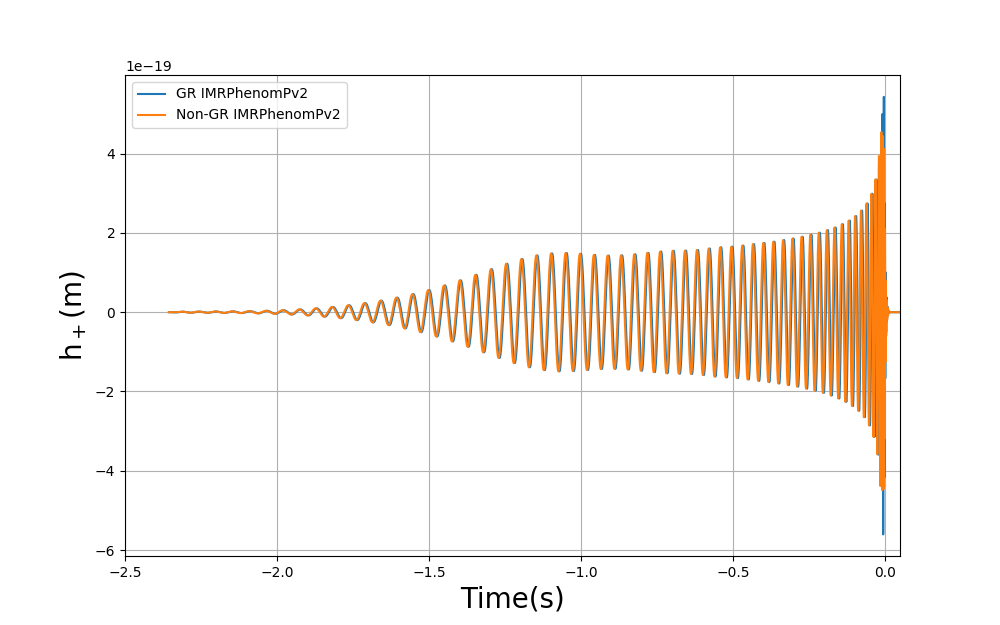
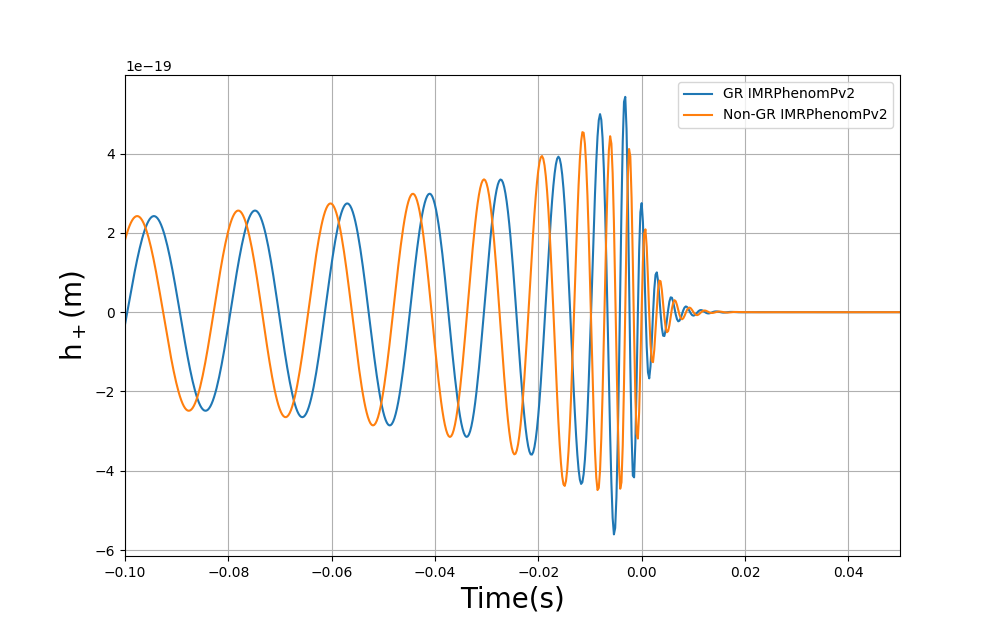
Zoomed in plots

diff --git a/zoom.py b/zoom.py
@@ -1,8 +1,6 @@
-#!/usr/bin/env python
+#import matplotlib
 
-import matplotlib
-
-matplotlib.use('Agg')
+#matplotlib.use('Agg')
 
 import numpy as np
 import pycbc
@@ -44,7 +42,7 @@ f_low = 20 # Lowest frequency
 
 # Generate the aLIGO ZDHP PSD
 delta_f = 1.0 / hp.duration # Frequency incirment
-flen = tlen/2 + 1 
+flen = tlen/2 + 1
 psd = aLIGOZeroDetHighPower(flen, delta_f, f_low) # Creating PSD
 
 
@@ -62,51 +60,50 @@ p['delta_t'] = 1./4096
 p['f_lower'] = 20
 p['approximant'] = 'IMRPhenomPv2'
 
-nGR = ['dchi0','dchi1','dchi2','dchi3','dchi4','dchi6',
-'dalpha2','dalpha3','dalpha4','dbeta2','dbeta3']
-
-#nGR = ['dchi0']
+nGR = ['dbeta3']
 
 # Looping through the list
 for nonGR in nGR:
-	# Setting the non-GR value to zero
-	j = 0
-	while True:
-		# Setting the non-GR parameter to have some value
-		p[str(nonGR)] = j
-	
-		sp, sc = pycbc.waveform.waveform.get_td_waveform(**p)
-	
-		# Resize the waveforms to the same length
-		sp.resize(tlen)
-	
-		# Note: This takes a while the first time as an FFT plan is generated
-		# subsequent calls are much faster.
-		m, i = match(hp, sp, psd=psd, low_frequency_cutoff=f_low)
+        # Setting the non-GR value to zero
+        j = 0
+        while True:
+                # Setting the non-GR parameter to have some value
+                p[str(nonGR)] = j
 
-		# If the match is less than 0.97 then break from the loop
-		if m <= 0.97:
-			print j
-			break
-		# Increasing the non-GR value
-		j += 0.01
-	
-	# Re-setting the non-GR parameter to zero.
+                sp, sc = pycbc.waveform.waveform.get_td_waveform(**p)
+
+                # Resize the waveforms to the same length
+                sp.resize(tlen)
+
+                # Note: This takes a while the first time as an FFT plan is generated
+                # subsequent calls are much faster.
+                m, i = match(hp, sp, psd=psd, low_frequency_cutoff=f_low)
+
+                # If the match is less than 0.97 then break from the loop
+                if m <= 0.97:
+                        print j
+                        break
+                # Increasing the non-GR value
+                j += 0.01
+
+        # Re-setting the non-GR parameter to zero.
         p[str(nonGR)] = 0
 
-	'''
-	Plotting and saving the waveforms
-	
-	plt.figure('%s'%nonGR, figsize = (10.0, 6.25))
-	plt.plot(hp.sample_times, hp, label = 'GR IMRPhenomPv2')
-	plt.plot(sp.sample_times, sp, label = 'Non-GR IMRPhenomPv2')
-	plt.xlabel('Time(s)', fontsize = 20)
-	plt.ylabel('h$_+$(m)', fontsize = 20)
-#	plt.title(('$%s = %.2f, M_1 = 20 M_\odot, M_2 = 30 M_\odot$'%(nonGR,j)), fontsize = 20)	
-	plt.legend(loc = 'best')
-	plt.xlim(-2.5, 0.05)
-	plt.grid()
-	plt.draw()
-	plt.savefig('/home/c1320229/non-GR/%s'%nonGR+'zero_spin.png', bbox = 'tight')
-	#plt.show()
-	'''
+        '''
+        Plotting and saving the waveforms
+	'''        
+
+        plt.figure('%s'%nonGR, figsize = (10.0, 6.25))
+        plt.plot(hp.sample_times, hp, label = 'GR IMRPhenomPv2')
+        plt.plot(sp.sample_times, sp, label = 'Non-GR IMRPhenomPv2')
+        plt.xlabel('Time(s)', fontsize = 20)
+        plt.ylabel('h$_+$(m)', fontsize = 20)
+#       plt.title(('$%s = %.2f, M_1 = 20 M_\odot, M_2 = 30 M_\odot$'%(nonGR,j)), fontsize = 20) 
+        plt.legend(loc = 'best')
+        plt.xlim(-0.25, 0.02)
+        plt.grid()
+        plt.draw()
+        plt.savefig('/home/c1320229/non-GR/%s'%nonGR+'zoom.png', bbox = 'tight')
+        plt.show()
+
+
